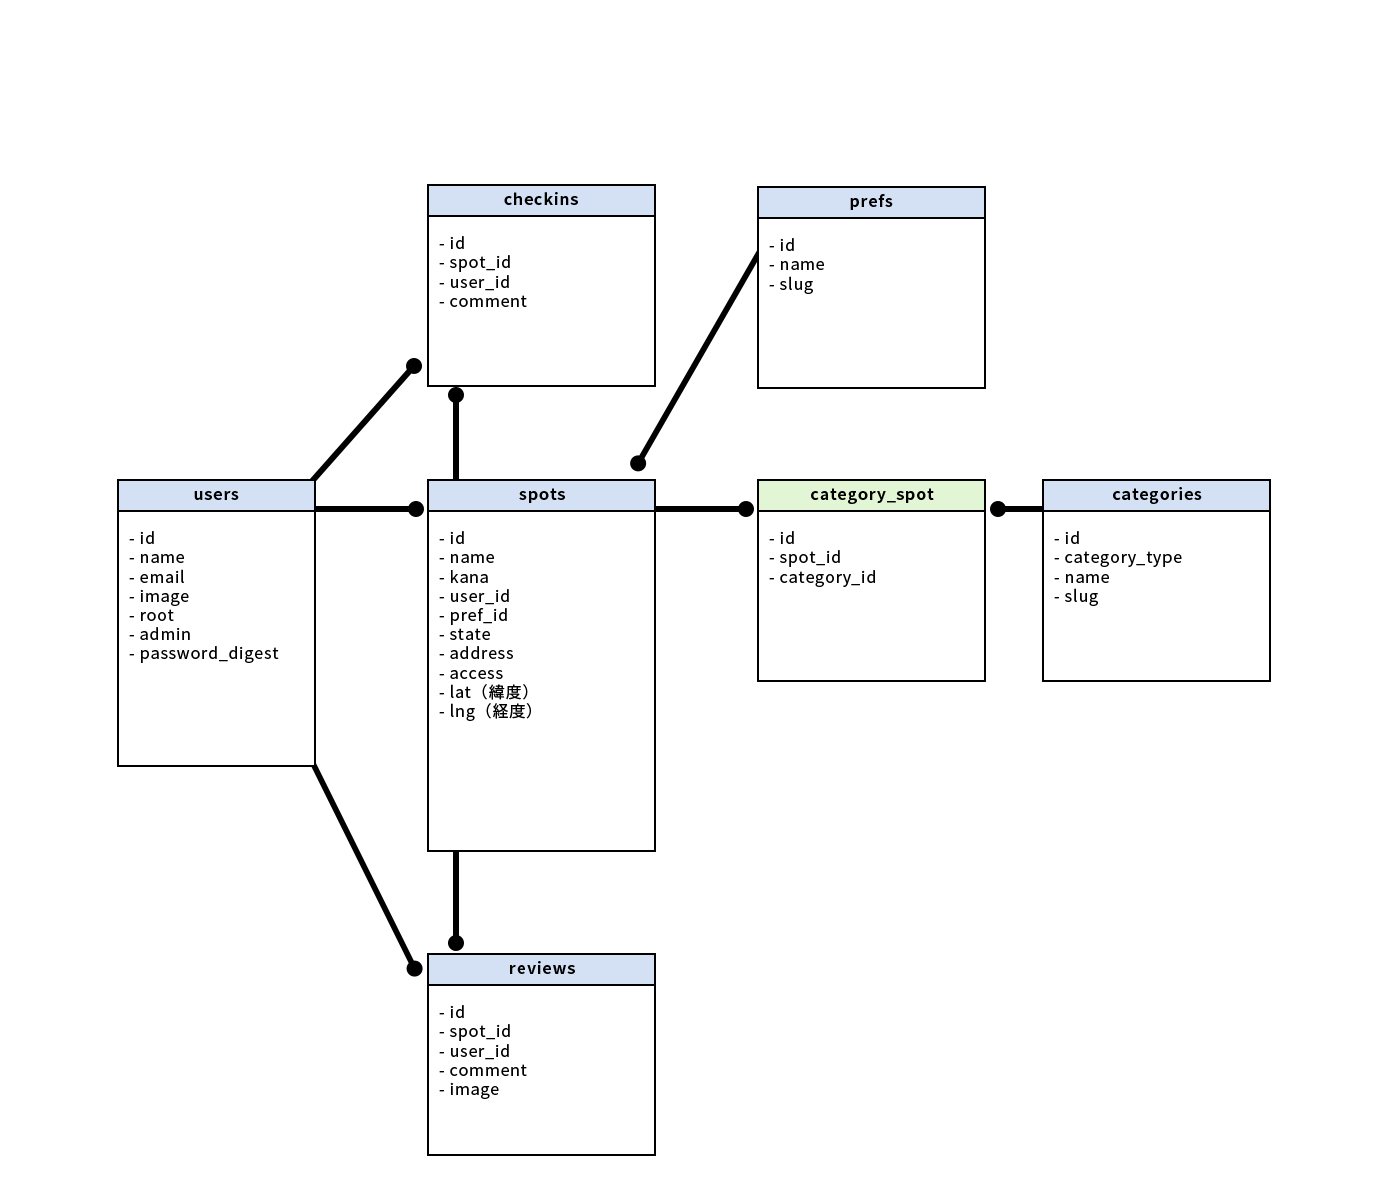
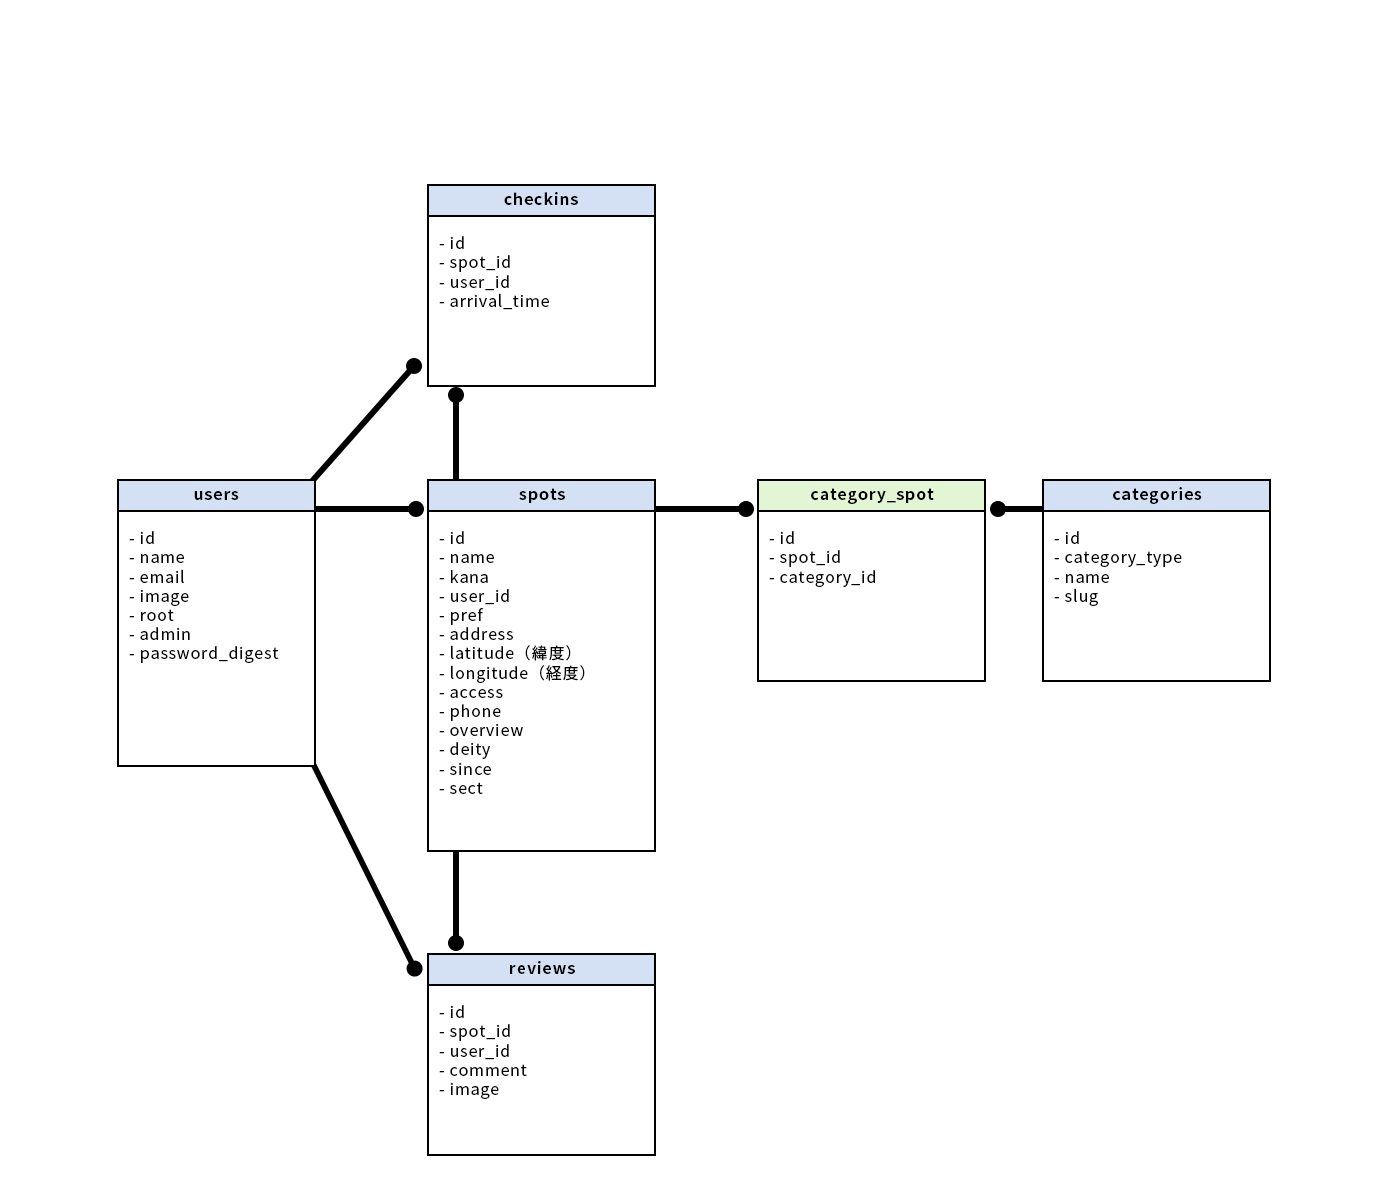
layouts update

diff --git a/app/assets/stylesheets/application.scss b/app/assets/stylesheets/application.scss
@@ -50,6 +50,11 @@ section{
   p{
     font-size: 14px;
   }
+  ul{
+    li{
+      list-style: none;
+    }
+  }
   hr{
     margin-bottom: 2rem;
     border-top: 1px solid #eee;
@@ -151,7 +156,6 @@ section{
 
 .spot-list{
   li{
-    list-style: none;
     border-bottom: 1px solid #eee;
     a{
       color: #333;
@@ -173,9 +177,9 @@ section{
     }
   }
 }/* .spot-list */
+
 .review-list{
   li{
-    list-style: none;
     .thumb{
       width: 240px;
       height: 240px;

diff --git a/db/seeds.rb b/db/seeds.rb
@@ -22,27 +22,10 @@ test_user.password = 'test'
 test_user.password_confirmation = 'test'
 test_user.save!
 
-admin_user.spots.create(name: '久伊豆神社', kana: 'ひさいずじんじゃ', address: '埼玉県越谷市越ヶ谷１７００', pref: 'Saitama', latitude: '35.901783', longitude: '139.790518')
-admin_user.spots.create(name: '越谷 香取神社', kana: 'かとりじんじゃ', address: '埼玉県越谷市大沢３丁目１３−３８', pref: 'Saitama', latitude: '35.9017', longitude: '139.782')
-admin_user.spots.create(name: '草加神社', kana: 'そうかじんしゃ', address: '埼玉県草加市氷川町２１１８−２', pref: 'Saitama', latitude: '35.8274', longitude: '139.801')
-admin_user.spots.create(name: '鶴岡八幡宮', kana: 'つるおかはちまんぐう', address: '神奈川県鎌倉市雪ノ下２丁目１−３１', pref: 'Kanagawa', latitude: '35.3249', longitude: '139.556')
-admin_user.spots.create(name: '武蔵一宮氷川神社', kana: 'ひかわじんじゃ', address: '埼玉県さいたま市大宮区高鼻町１−４０７', pref: 'Saitama', latitude: '35.9148', longitude: '139.63')
-admin_user.spots.create(name: '清水寺', kana: 'きよみずでら', address: '京都府京都市東山区清水１丁目２９４', pref: 'Kyoto', latitude: '34.9945', longitude: '135.784')
-admin_user.spots.create(name: '出雲大社', kana: 'いずもたいしゃ', address: '島根県出雲市大社町杵築東１９５', pref: 'Shimane', latitude: '35.4011', longitude: '132.685')
-admin_user.spots.create(name: '寒川神社', kana: 'さむかわじんじゃ', address: '神奈川県高座郡寒川町宮山３９１６', pref: 'Kanagawa', latitude: '35.3788943', longitude: '139.3832276')
-admin_user.spots.create(name: '榛名神社', kana: 'はるなじんじゃ', address: '群馬県高崎市榛名山町８４９', pref: 'Gunma', latitude: '36.4563', longitude: '138.852')
-admin_user.spots.create(name: '前橋東照宮', kana: 'まえばしとうしょうぐう', address: '群馬県前橋市大手町３丁目１３−１９', pref: 'Gunma', latitude: '36.3946', longitude: '139.062')
-admin_user.spots.create(name: '総社神社', kana: 'そうじゃじんじゃ', address: '群馬県前橋市元総社町１丁目３１−４５', pref: 'Gunma', latitude: '36.38799', longitude: '139.037869')
-admin_user.spots.create(name: '前橋八幡宮', kana: 'まえばしはちまんぐう', address: '群馬県前橋市本町２丁目７−７', pref: 'Gunma', latitude: '36.388624', longitude: '139.069978')
-admin_user.spots.create(name: '産泰神社', kana: 'さんたいじんじゃ', address: '群馬県前橋市下大屋町５６９', pref: 'Gunma', latitude: '36.389453', longitude: '139.17029')
-admin_user.spots.create(name: '赤城神社', kana: 'あかぎじんじゃ', address: '群馬県前橋市三夜沢町１１４', pref: 'Gunma', latitude: '36.484444', longitude: '139.178036')
-admin_user.spots.create(name: '駒形神社', kana: 'こまがたじんじゃ', address: '群馬県前橋市駒形町710', pref: 'Gunma', latitude: '36.34211', longitude: '139.141764')
-admin_user.spots.create(name: '代々木八幡宮', kana: 'よよぎはちまんぐう', address: '東京都渋谷区代々木５丁目１−１', pref: 'Tokyo', latitude: '35.672084', longitude: '139.688535')
-admin_user.spots.create(name: '明治神宮', kana: 'めいじじんぐう', address: '東京都渋谷区代々木神園町１−１', pref: 'Tokyo', latitude: '35.675876', longitude: '139.699898')
-admin_user.spots.create(name: '東郷神社', kana: 'とうごうじんじゃ', address: '東京都渋谷区神宮前１丁目５−３', pref: 'Tokyo', latitude: '35.671807', longitude: '139.705928')
 
 # カテゴリ登録
 Category.create(name: '西国三十三所観音霊場', slug: 'route-1', category_type: 'route')
+Category.create(name: '坂東三十三観音', slug: 'route-2', category_type: 'route')
 
 Category.create(name: '学業', slug: 'gakugyo', category_type: 'luck')
 Category.create(name: '縁結び', slug: 'enmusubi', category_type: 'luck')
@@ -70,4 +53,38 @@ Category.create(name: '県重要文化財', slug: 'ken-jyuyo', category_type: 'f
 Category.create(name: '府重要文化財', slug: 'fu-jyuyo', category_type: 'feature')
 Category.create(name: '国重要無形民俗文化財', slug: 'kuji-jyuyo-mukei', category_type: 'feature')
 Category.create(name: '国史跡', slug: 'kunisiseki', category_type: 'feature')
+
+
+admin_user.spots.create(name: '久伊豆神社', kana: 'ひさいずじんじゃ', address: '埼玉県越谷市越ヶ谷１７００', pref: 'Saitama')
+admin_user.spots.create(name: '越谷 香取神社', kana: 'かとりじんじゃ', address: '埼玉県越谷市大沢３丁目１３−３８', pref: 'Saitama')
+admin_user.spots.create(name: '草加神社', kana: 'そうかじんしゃ', address: '埼玉県草加市氷川町２１１８−２', pref: 'Saitama')
+admin_user.spots.create(name: '鶴岡八幡宮', kana: 'つるおかはちまんぐう', category_ids: [7, 18, 22, 24, 27], address: '神奈川県鎌倉市雪ノ下２丁目１−３１', pref: 'Kanagawa', phone: '0467-22-0315', access: 'JR横須賀線ほか鎌倉駅より徒歩10分', since: '1063', deity: '応神天皇、比売神、神功皇后', sect: '')
+admin_user.spots.create(name: '武蔵一宮氷川神社', kana: 'ひかわじんじゃ', address: '埼玉県さいたま市大宮区高鼻町１−４０７', pref: 'Saitama')
+admin_user.spots.create(name: '清水寺', kana: 'きよみずでら', address: '京都府京都市東山区清水１丁目２９４', pref: 'Kyoto')
+admin_user.spots.create(name: '出雲大社', kana: 'いずもたいしゃ', category_ids: [18, 22, 24], address: '島根県出雲市大社町杵築東１９５', pref: 'Shimane')
+admin_user.spots.create(name: '寒川神社', kana: 'さむかわじんじゃ', address: '神奈川県高座郡寒川町宮山３９１６', pref: 'Kanagawa')
+admin_user.spots.create(name: '榛名神社', kana: 'はるなじんじゃ', address: '群馬県高崎市榛名山町８４９', pref: 'Gunma')
+admin_user.spots.create(name: '前橋東照宮', kana: 'まえばしとうしょうぐう', address: '群馬県前橋市大手町３丁目１３−１９', pref: 'Gunma')
+admin_user.spots.create(name: '総社神社', kana: 'そうじゃじんじゃ', address: '群馬県前橋市元総社町１丁目３１−４５', pref: 'Gunma')
+admin_user.spots.create(name: '前橋八幡宮', kana: 'まえばしはちまんぐう', address: '群馬県前橋市本町２丁目７−７', pref: 'Gunma')
+admin_user.spots.create(name: '産泰神社', kana: 'さんたいじんじゃ', address: '群馬県前橋市下大屋町５６９', pref: 'Gunma')
+admin_user.spots.create(name: '赤城神社', kana: 'あかぎじんじゃ', address: '群馬県前橋市三夜沢町１１４', pref: 'Gunma')
+admin_user.spots.create(name: '駒形神社', kana: 'こまがたじんじゃ', address: '群馬県前橋市駒形町710', pref: 'Gunma')
+admin_user.spots.create(name: '代々木八幡宮', kana: 'よよぎはちまんぐう', address: '東京都渋谷区代々木５丁目１−１', pref: 'Tokyo')
+admin_user.spots.create(name: '明治神宮', kana: 'めいじじんぐう', category_ids: [4, 22], address: '東京都渋谷区代々木神園町１−１', pref: 'Tokyo')
+admin_user.spots.create(name: '東郷神社', kana: 'とうごうじんじゃ', address: '東京都渋谷区神宮前１丁目５−３', pref: 'Tokyo')
+
+admin_user.spots.create(name: '三光院', kana: 'さんこういん', category_ids: [24], address: '群馬県沼田市柳町３９２', phone: '0278-24-4465', access: 'JR上越線・沼田駅よりバスで三光院前下車すぐ', since: '1324', deity: '十一面観世音菩薩', sect: '天台宗', pref: 'Gunma')
+admin_user.spots.create(name: '長谷寺', kana: 'ちょうこくじ', category_ids: [2, 24], address: '群馬県高崎市白岩町４４８', phone: '027-343-0349', access: 'JR上越新幹線ほか高崎駅よりバスでトドメキ下車、徒歩30分', since: '686', sect: '金峯山修験本宗', deity: '十一面観世音菩薩', pref: 'Gunma')
+admin_user.spots.create(name: '世良田東照宮', kana: 'せらだとうしょうぐう', category_ids: [22, 24, 27], address: '群馬県太田市世良田町３１１９−１', phone: '0276-52-2045', access: 'JR東武伊勢崎線・世良田駅より徒歩20分', since: '1639または1644', sect: '', deity: '徳川家康公', pref: 'Gunma')
+admin_user.spots.create(name: '水澤寺', kana: 'みずさわでら', category_ids: [2, 24], address: '群馬県渋川市伊香保町水沢２１４', phone: '', access: 'JR上越新幹線ほか高崎駅よりバスで水澤観音前下車すぐ', since: '593～628', sect: '天台宗', deity: '十一面千手観世音菩薩', pref: 'Gunma')
+admin_user.spots.create(name: '雷電神社', kana: 'らいでんじんじゃ', category_ids: [22, 24], address: '群馬県邑楽郡板倉町２３３４', phone: '0276-82-0007', access: '東武日光線・板倉東洋大前駅よりバスで役場入口下車、徒歩10分', since: '推古天皇の御代', sect: '', deity: '火雷大神、大雷大神、別雷大神、菅原道真公', pref: 'Gunma')
+admin_user.spots.create(name: '大光院', kana: 'だいこういん', address: '群馬県太田市金山町３７−８', phone: '276-22-2007', access: '東武伊勢崎線ほか太田駅より徒歩20分', since: '1611', sect: '浄土宗', deity: '阿弥陀如来', pref: 'Gunma')
+admin_user.spots.create(name: '達磨寺', kana: 'だるまじ', address: '群馬県高崎市鼻高町２９６', phone: '27-322-8800', access: 'JR上越新幹線ほか高崎駅よりバスで少林山入口下車すぐ', since: '1697', sect: '黄檗宗', deity: '北辰鎮宅霊符尊、達磨大師、観音菩薩', pref: 'Gunma')
+admin_user.spots.create(name: '日向見薬師堂', kana: 'ひなたみやくしどう', category_ids: [22], address: '群馬県吾妻郡中之条町四万４３７１', phone: '0279-75-8814', access: 'JR吾妻線・中之条駅よりバスで四万温泉下車、徒歩30分', since: '989', sect: '', deity: '薬師如来', pref: 'Gunma')
+
+
+
+
+
 

diff --git a/db/schema.rb b/db/schema.rb
@@ -10,7 +10,7 @@
 #
 # It's strongly recommended that you check this file into your version control system.
 
-ActiveRecord::Schema.define(version: 20180920173435) do
+ActiveRecord::Schema.define(version: 20180922120121) do
 
   create_table "categories", force: :cascade, options: "ENGINE=InnoDB DEFAULT CHARSET=utf8" do |t|
     t.string "category_type"
@@ -53,6 +53,9 @@ ActiveRecord::Schema.define(version: 20180920173435) do
     t.string "access"
     t.string "phone"
     t.string "overview"
+    t.string "deity"
+    t.string "since"
+    t.string "sect"
     t.index ["user_id"], name: "index_spots_on_user_id"
   end
 

diff --git a/app/controllers/spots_controller.rb b/app/controllers/spots_controller.rb
@@ -140,7 +140,7 @@ class SpotsController < ApplicationController
   end
   
   def spot_params
-    params.require(:spot).permit(:name, :kana, :address, :access, :phone, :pref, :latitude, :longitude, :overview, { :category_ids=> []})
+    params.require(:spot).permit(:name, :kana, :address, :access, :phone, :pref, :latitude, :longitude, :overview, :since, :sect, :deity, { :category_ids=> []})
   end
   
 end

diff --git a/db/migrate/20180922113839_add_columns2_to_spots.rb b/db/migrate/20180922113839_add_columns2_to_spots.rb
@@ -1,0 +1,7 @@
+class AddColumns2ToSpots < ActiveRecord::Migration[5.1]
+  def change
+    add_column :spots, :deity, :string
+    add_column :spots, :since, :integer
+    add_column :spots, :sect, :string
+  end
+end

diff --git a/db/migrate/20180922120121_cange_datatype_since_of_spots.rb b/db/migrate/20180922120121_cange_datatype_since_of_spots.rb
@@ -1,0 +1,5 @@
+class CangeDatatypeSinceOfSpots < ActiveRecord::Migration[5.1]
+  def change
+    change_column :spots, :since, :string
+  end
+end
